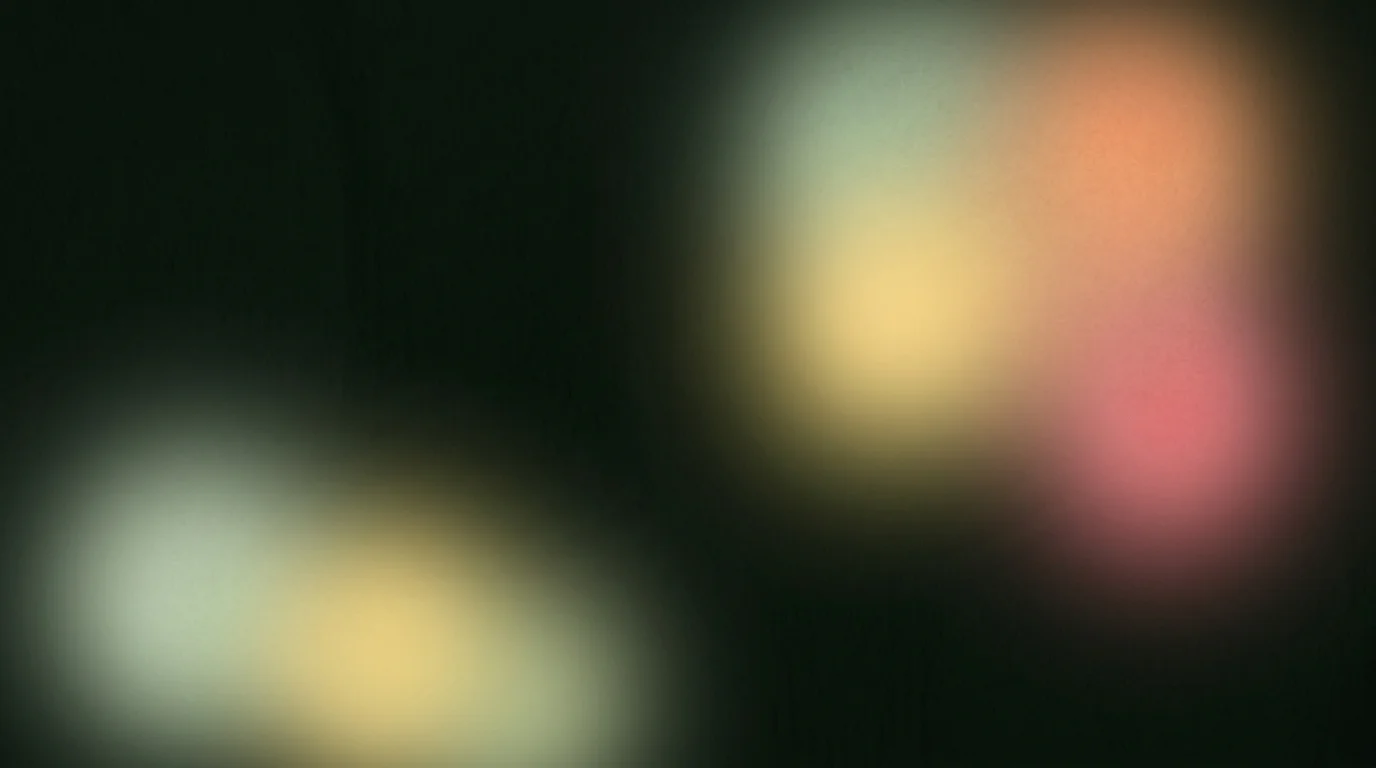
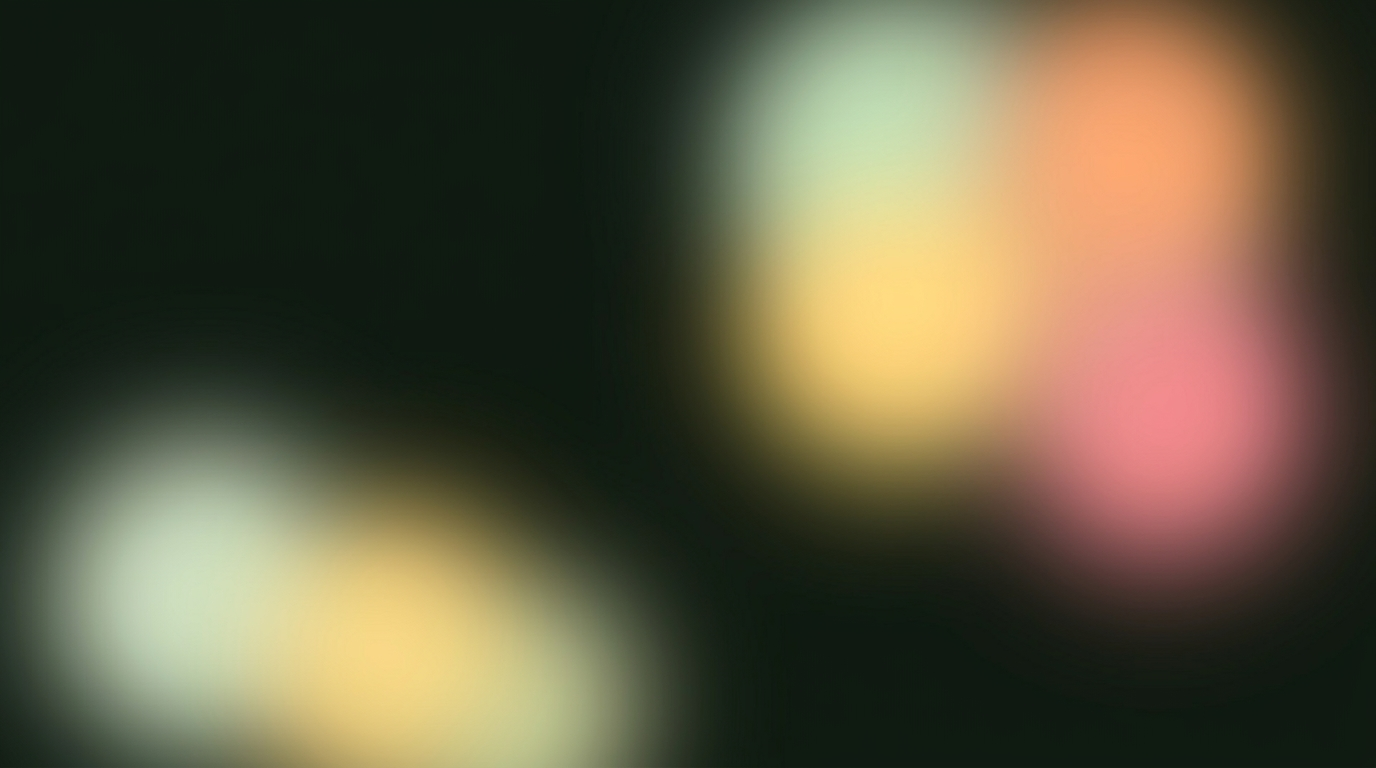
feat: implementacion de modo oscuro en login y registro

Changed region(s): [[0.5, 0.0, 0.9688, 0.7188], [0.0625, 0.5625, 0.4688, 1.0]]

diff --git a/autenticacion/templates/autenticacion/registro.html b/autenticacion/templates/autenticacion/registro.html
@@ -1,12 +1,13 @@
-{% extends "base.html" %} {% load static %} {% block main_class %}pt-0{% endblock %} {% block titulo %}Crear Cuenta -
-Monagua{% endblock %} {% block content %}
+{% extends "base.html" %} {% load static %} {% block main_class %}pt-0{%
+endblock %} {% block titulo %}Crear Cuenta - Monagua{% endblock %} {% block
+content %}
 <!-- ============================================================ -->
 <!-- CONTENEDOR PRINCIPAL: Formulario Centrado con Fondo -->
 <!-- ============================================================ -->
 <div
   class="min-vh-100 d-flex flex-column justify-content-center align-items-center pt-5 pb-5 px-3 registro-hero-bg"
   style="
-    background-image: url('{% static 'img/difuminado.jpg' %}');
+    background-image: url(&quot;{% static &quot;img/difuminado.webp&quot; %}&quot;);
     background-size: cover;
     background-position: center;
     background-attachment: fixed;
@@ -115,7 +116,9 @@ Monagua{% endblock %} {% block content %}
           required
         />
         {% if form.username.errors %}
-        <div class="invalid-feedback ms-3 d-block">{{ form.username.errors.0 }}</div>
+        <div class="invalid-feedback ms-3 d-block">
+          {{ form.username.errors.0 }}
+        </div>
         {% endif %}
       </div>
 
@@ -134,10 +137,58 @@ Monagua{% endblock %} {% block content %}
               class="form-select rounded-pill py-3 px-4 text-secondary {% if form.tipo_documento.errors %}is-invalid{% endif %}"
               required
             >
-              <option value="" {% if not form.tipo_documento.value %}selected{% endif %} disabled>Selecciona tipo</option>
-              <option value="CC" {% if form.tipo_documento.value == 'CC' %}selected{% endif %}>Cédula de Ciudadanía (CC)</option>
-              <option value="CE" {% if form.tipo_documento.value == 'CE' %}selected{% endif %}>Cédula de Extranjería (CE)</option>
-              <option value="PASAPORTE" {% if form.tipo_documento.value == 'PASAPORTE' or form.tipo_documento.value == 'PAS' %}selected{% endif %}>Pasaporte (PAS)</option>
+              <option
+                value=""
+                {%
+                if
+                not
+                form.tipo_documento.value
+                %}selected{%
+                endif
+                %}
+                disabled
+              >
+                Selecciona tipo
+              </option>
+              <option
+                value="CC"
+                {%
+                if
+                form.tipo_documento.value=""
+                ="CC"
+                %}selected{%
+                endif
+                %}
+              >
+                Cédula de Ciudadanía (CC)
+              </option>
+              <option
+                value="CE"
+                {%
+                if
+                form.tipo_documento.value=""
+                ="CE"
+                %}selected{%
+                endif
+                %}
+              >
+                Cédula de Extranjería (CE)
+              </option>
+              <option
+                value="PASAPORTE"
+                {%
+                if
+                form.tipo_documento.value=""
+                ="PASAPORTE"
+                or
+                form.tipo_documento.value=""
+                ="PAS"
+                %}selected{%
+                endif
+                %}
+              >
+                Pasaporte (PAS)
+              </option>
             </select>
             {% if form.tipo_documento.errors %}
             <div class="invalid-feedback ms-3 d-block">
@@ -160,7 +211,9 @@ Monagua{% endblock %} {% block content %}
               placeholder="1000000000"
               maxlength="10"
               required
-              oninput="this.value = this.value.replace(/[^0-9]/g, '').slice(0, 10)"
+              oninput="
+                this.value = this.value.replace(/[^0-9]/g, '').slice(0, 10)
+              "
             />
             {% if form.numero_documento.errors %}
             <div class="invalid-feedback ms-3 d-block">
@@ -213,9 +266,12 @@ Monagua{% endblock %} {% block content %}
             </select>
           </div>
         </div>
-        {% if form.pais.errors or form.departamento.errors or form.ciudad.errors %}
+        {% if form.pais.errors or form.departamento.errors or form.ciudad.errors
+        %}
         <div class="invalid-feedback ms-3 d-block">
-          {{ form.pais.errors.0|default:form.departamento.errors.0|default:form.ciudad.errors.0 }}
+          {{
+          form.pais.errors.0|default:form.departamento.errors.0|default:form.ciudad.errors.0
+          }}
         </div>
         {% endif %}
       </div>
@@ -262,7 +318,9 @@ Monagua{% endblock %} {% block content %}
               required
             />
             {% if form.email.errors %}
-            <div class="invalid-feedback ms-3 d-block">{{ form.email.errors.0 }}</div>
+            <div class="invalid-feedback ms-3 d-block">
+              {{ form.email.errors.0 }}
+            </div>
             {% endif %}
           </div>
         </div>

diff --git a/autenticacion/templates/autenticacion/login.html b/autenticacion/templates/autenticacion/login.html
@@ -6,7 +6,7 @@
 <div
   class="d-lg-none min-vh-100 d-flex flex-column justify-content-center align-items-center pt-5 pb-4 px-3"
   style="
-    background-image: url('{% static 'img/difuminado.jpg' %}');
+    background-image: url('{% static 'img/difuminado.webp' %}');
     background-size: cover;
     background-position: center;
     background-attachment: fixed;
@@ -22,7 +22,7 @@
     <!-- Cabecera Editorial -->
     <div class="mb-5" data-aos="fade-up" data-aos-delay="100">
       <h1 class="display-4 fw-bold text-dark mb-1">¡Hola!</h1>
-      <p class="text-muted mb-4 small fw-medium">
+      <p class="text-white mb-4 small fw-medium">
         Bienvenido de vuelta a las montañas de Mongua.
       </p>
       <h2 class="h4 fw-bold text-dark">Inicia sesión</h2>
@@ -35,8 +35,11 @@
       data-aos-delay="200"
     >
       <div class="d-flex align-items-center gap-3">
-        <div class="p-3 bg-success bg-opacity-10 text-success rounded-circle">
-          <i class="bi bi-compass fs-3 d-block"></i>
+        <div
+          class="d-flex align-items-center justify-content-center bg-success text-white rounded-circle flex-shrink-0 shadow-sm"
+          style="width: 50px; height: 50px; min-width: 50px;"
+        >
+          <i class="fa-solid fa-lightbulb fs-4"></i>
         </div>
         <div>
           <h5 class="mb-1 fw-bold text-dark">
@@ -162,7 +165,7 @@
           <!-- Cabecera Editorial -->
           <div class="mb-5" data-aos="fade-up" data-aos-delay="100">
             <h1 class="display-4 fw-bold text-dark mb-1">¡Hola!</h1>
-            <p class="text-muted mb-4 small fw-medium">
+            <p class="text-white mb-4 small fw-medium">
               Bienvenido de vuelta a las montañas de Mongua.
             </p>
             <h2 class="h4 fw-bold text-dark">Inicia sesión</h2>
@@ -176,9 +179,10 @@
           >
             <div class="d-flex align-items-center gap-3">
               <div
-                class="p-3 bg-success bg-opacity-10 text-success rounded-circle"
+                class="d-flex align-items-center justify-content-center bg-success text-white rounded-circle flex-shrink-0 shadow-sm"
+                style="width: 50px; height: 50px; min-width: 50px;"
               >
-                <i class="bi bi-compass fs-3 d-block"></i>
+                <i class="fa-solid fa-lightbulb fs-4"></i>
               </div>
               <div>
                 <h5 class="mb-1 fw-bold text-dark">
@@ -204,7 +208,7 @@
 
             <!-- Input Usuario -->
             <div class="mb-3" data-aos="fade-up" data-aos-delay="300">
-              <label class="form-label small fw-semibold text-secondary ps-3 mb-1">Correo electrónico o nombre de usuario</label>
+              <label class="form-label small fw-semibold text-white ps-3 mb-1">Correo electrónico o nombre de usuario</label>
               <input
                 type="text"
                 name="username"
@@ -216,7 +220,7 @@
 
             <!-- Input Password -->
             <div class="mb-3" data-aos="fade-up" data-aos-delay="400">
-              <label class="form-label small fw-semibold text-secondary ps-3 mb-1">Contraseña</label>
+              <label class="form-label small fw-semibold text-white ps-3 mb-1">Contraseña</label>
               <div class="position-relative">
                 <input
                   type="password"
@@ -280,7 +284,7 @@
               width="22"
               height="22"
             />
-            <span class="fw-bold text-secondary opacity-75 fs-6">Monagua</span>
+            <span class="fw-bold text-white opacity-75 fs-6">Monagua</span>
           </div>
         </div>
       </div>

diff --git a/static/css/accesibilidad.css b/static/css/accesibilidad.css
@@ -1065,7 +1065,7 @@ html[data-bs-theme="dark"] [style*="Fondo6.png"] {
 
 /* ── 16. FONDO DE REGISTRO EN MODO OSCURO ── */
 html[data-bs-theme="dark"] .registro-hero-bg,
-html[data-bs-theme="dark"] [style*="difuminado.jpg"] {
+html[data-bs-theme="dark"] [style*="difuminado.webp"] {
     background-image: url('/static/img/difuminado_oscuro.webp') !important;
 }
 

diff --git a/autenticacion/templates/autenticacion/recuperar.html b/autenticacion/templates/autenticacion/recuperar.html
@@ -9,7 +9,7 @@
 <div
   class="min-vh-100 d-flex flex-column justify-content-center align-items-center pt-5 pb-5 px-3"
   style="
-    background-image: url('{% static 'img/difuminado.jpg' %}');
+    background-image: url('{% static 'img/difuminado.webp' %}');
     background-size: cover;
     background-position: center;
     background-attachment: fixed;

diff --git a/autenticacion/templates/autenticacion/recuperar_apodo.html b/autenticacion/templates/autenticacion/recuperar_apodo.html
@@ -9,7 +9,7 @@
 <div
   class="min-vh-100 d-flex flex-column justify-content-center align-items-center pt-5 pb-5 px-3"
   style="
-    background-image: url('{% static 'img/difuminado.jpg' %}');
+    background-image: url('{% static 'img/difuminado.webp' %}');
     background-size: cover;
     background-position: center;
     background-attachment: fixed;

diff --git a/autenticacion/templates/autenticacion/recuperar_clave_enviado.html b/autenticacion/templates/autenticacion/recuperar_clave_enviado.html
@@ -9,7 +9,7 @@
 <div
   class="min-vh-100 d-flex flex-column justify-content-center align-items-center pt-5 pb-5 px-3"
   style="
-    background-image: url('{% static 'img/difuminado.jpg' %}');
+    background-image: url('{% static 'img/difuminado.webp' %}');
     background-size: cover;
     background-position: center;
     background-attachment: fixed;

diff --git a/autenticacion/templates/autenticacion/recuperar_clave_form.html b/autenticacion/templates/autenticacion/recuperar_clave_form.html
@@ -9,7 +9,7 @@
 <div
   class="min-vh-100 d-flex flex-column justify-content-center align-items-center pt-5 pb-5 px-3"
   style="
-    background-image: url('{% static 'img/difuminado.jpg' %}');
+    background-image: url('{% static 'img/difuminado.webp' %}');
     background-size: cover;
     background-position: center;
     background-attachment: fixed;

diff --git a/autenticacion/templates/autenticacion/recuperar_clave_guardar.html b/autenticacion/templates/autenticacion/recuperar_clave_guardar.html
@@ -9,7 +9,7 @@
 <div
   class="min-vh-100 d-flex flex-column justify-content-center align-items-center pt-5 pb-5 px-3"
   style="
-    background-image: url('{% static 'img/difuminado.jpg' %}');
+    background-image: url('{% static 'img/difuminado.webp' %}');
     background-size: cover;
     background-position: center;
     background-attachment: fixed;

diff --git a/autenticacion/templates/autenticacion/registro_otp.html b/autenticacion/templates/autenticacion/registro_otp.html
@@ -9,7 +9,7 @@
 <div
   class="min-vh-100 d-flex flex-column justify-content-center align-items-center pt-5 pb-5 px-3"
   style="
-    background-image: url('{% static 'img/difuminado.jpg' %}');
+    background-image: url('{% static 'img/difuminado.webp' %}');
     background-size: cover;
     background-position: center;
     background-attachment: fixed;

diff --git a/autenticacion/templates/autenticacion/verificar_otp.html b/autenticacion/templates/autenticacion/verificar_otp.html
@@ -9,7 +9,7 @@
 <div
   class="min-vh-100 d-flex flex-column justify-content-center align-items-center pt-5 pb-5 px-3"
   style="
-    background-image: url('{% static 'img/difuminado.jpg' %}');
+    background-image: url('{% static 'img/difuminado.webp' %}');
     background-size: cover;
     background-position: center;
     background-attachment: fixed;
